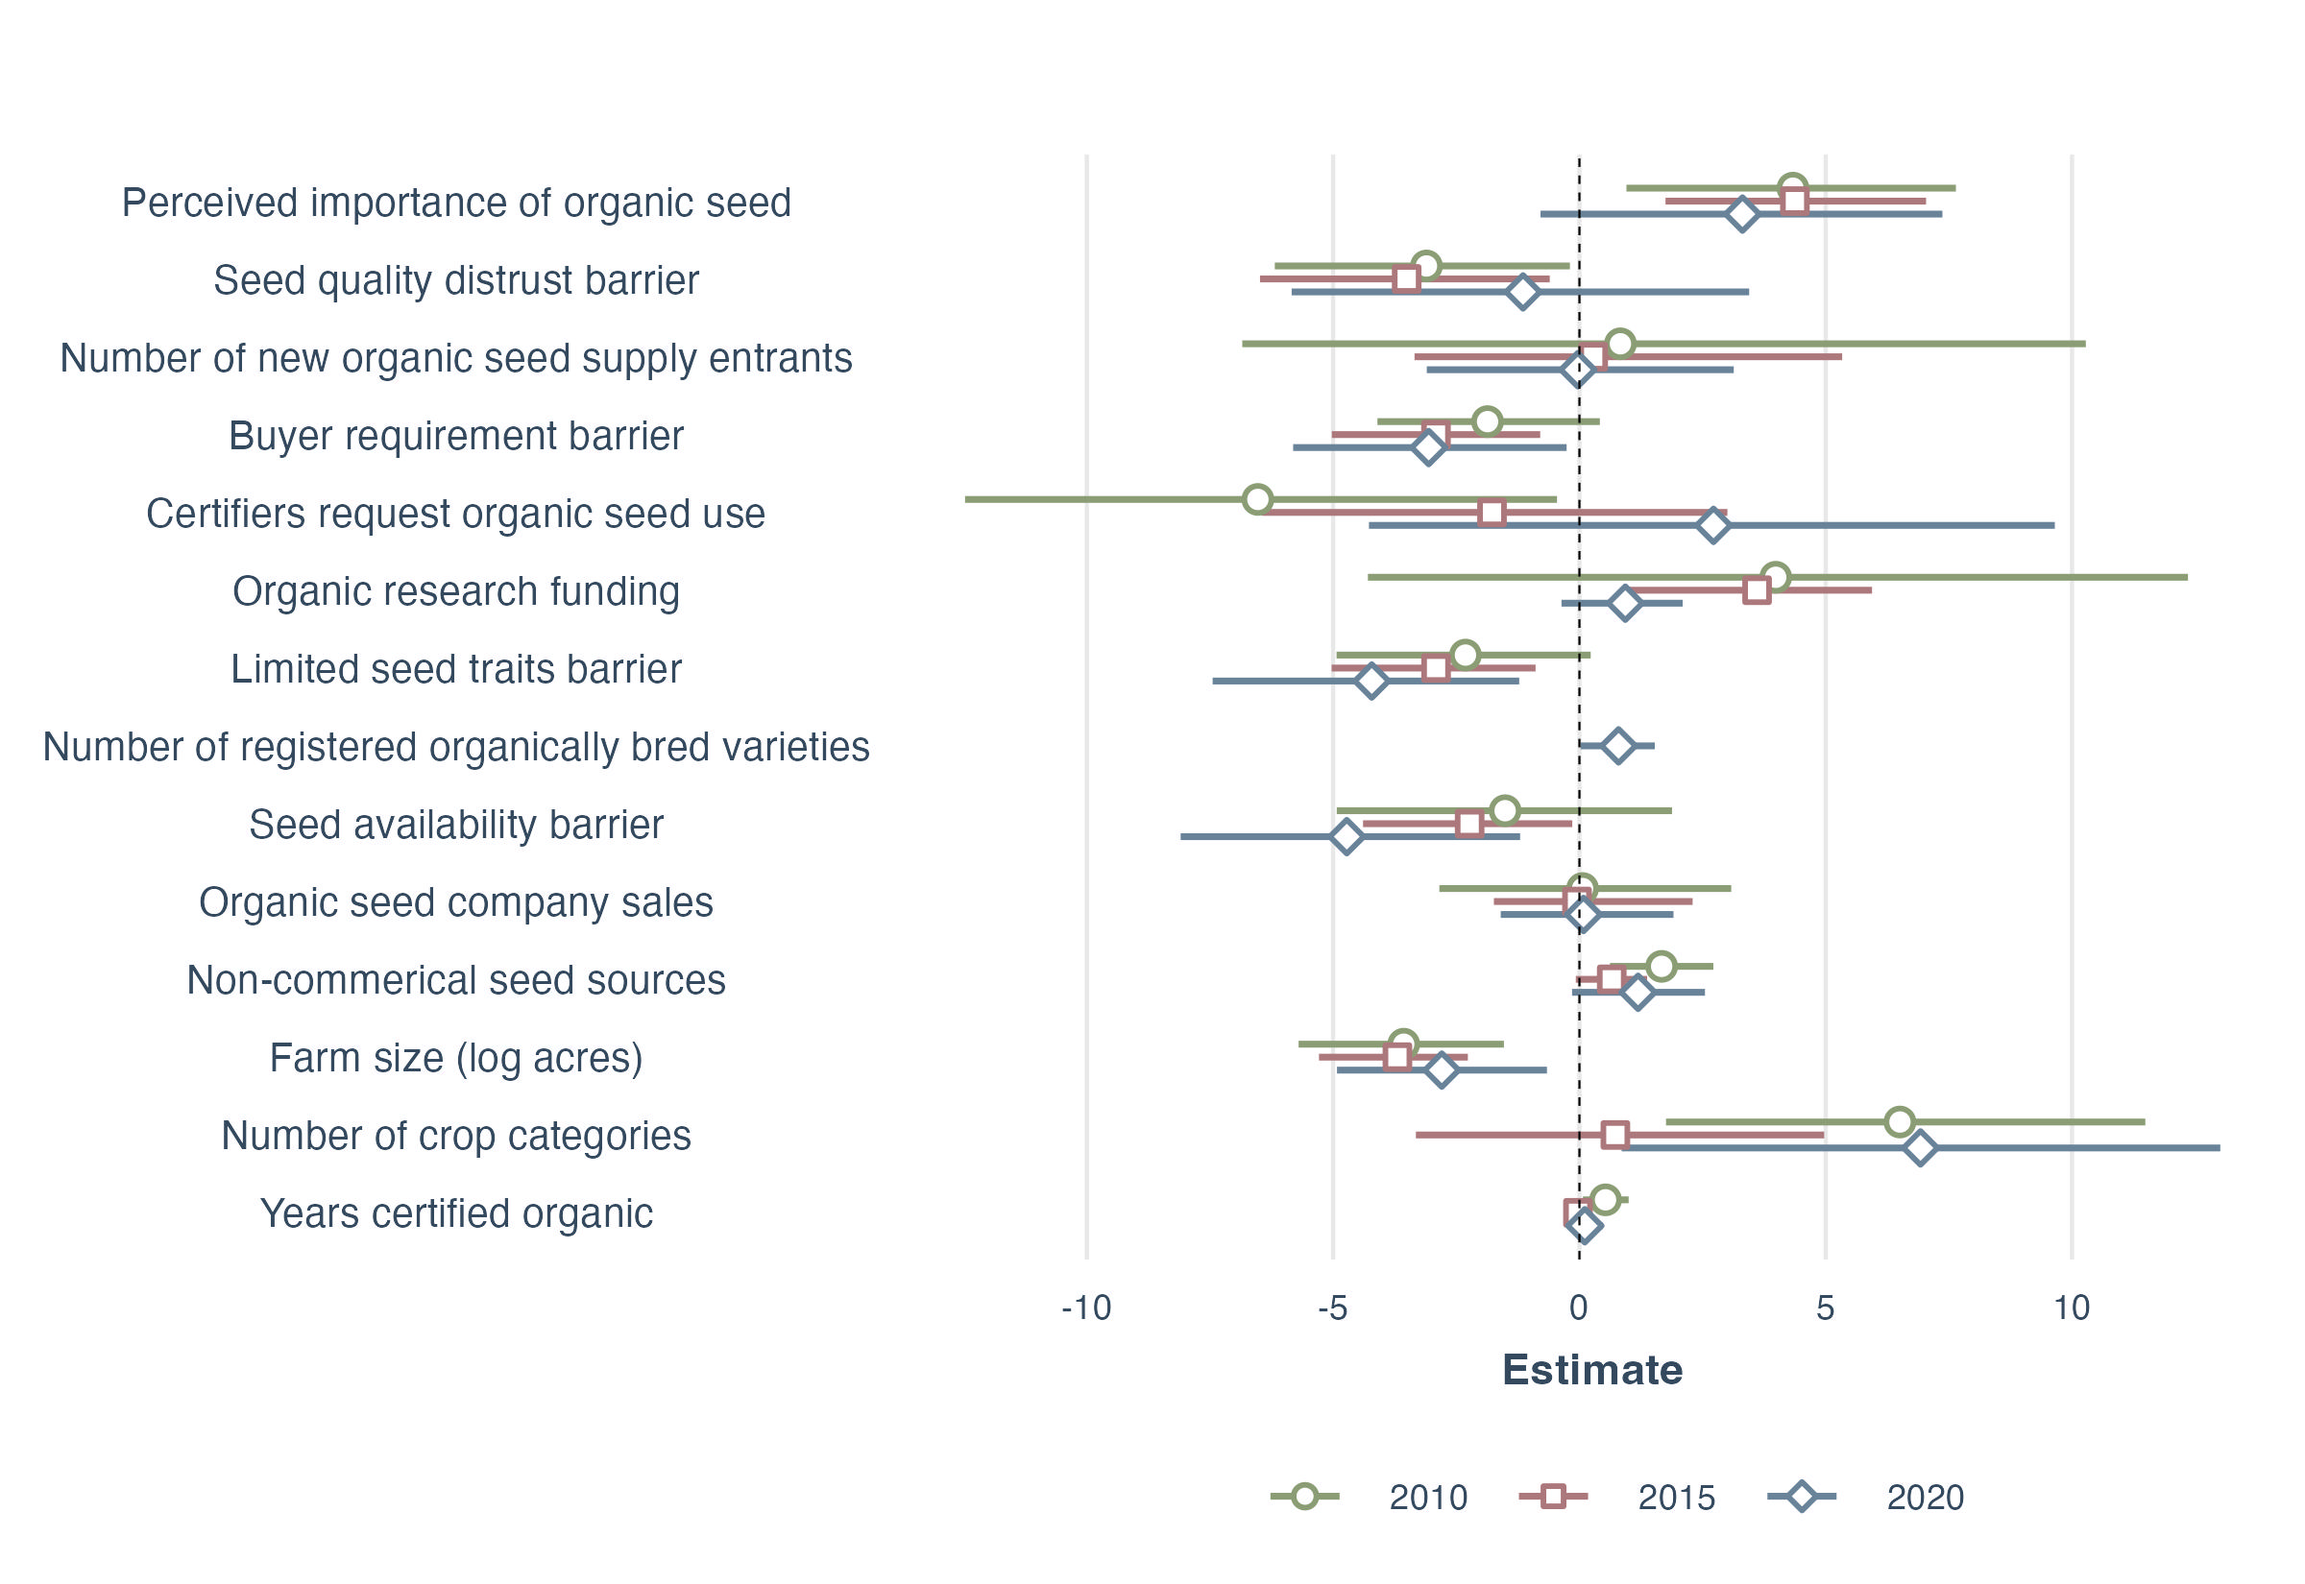
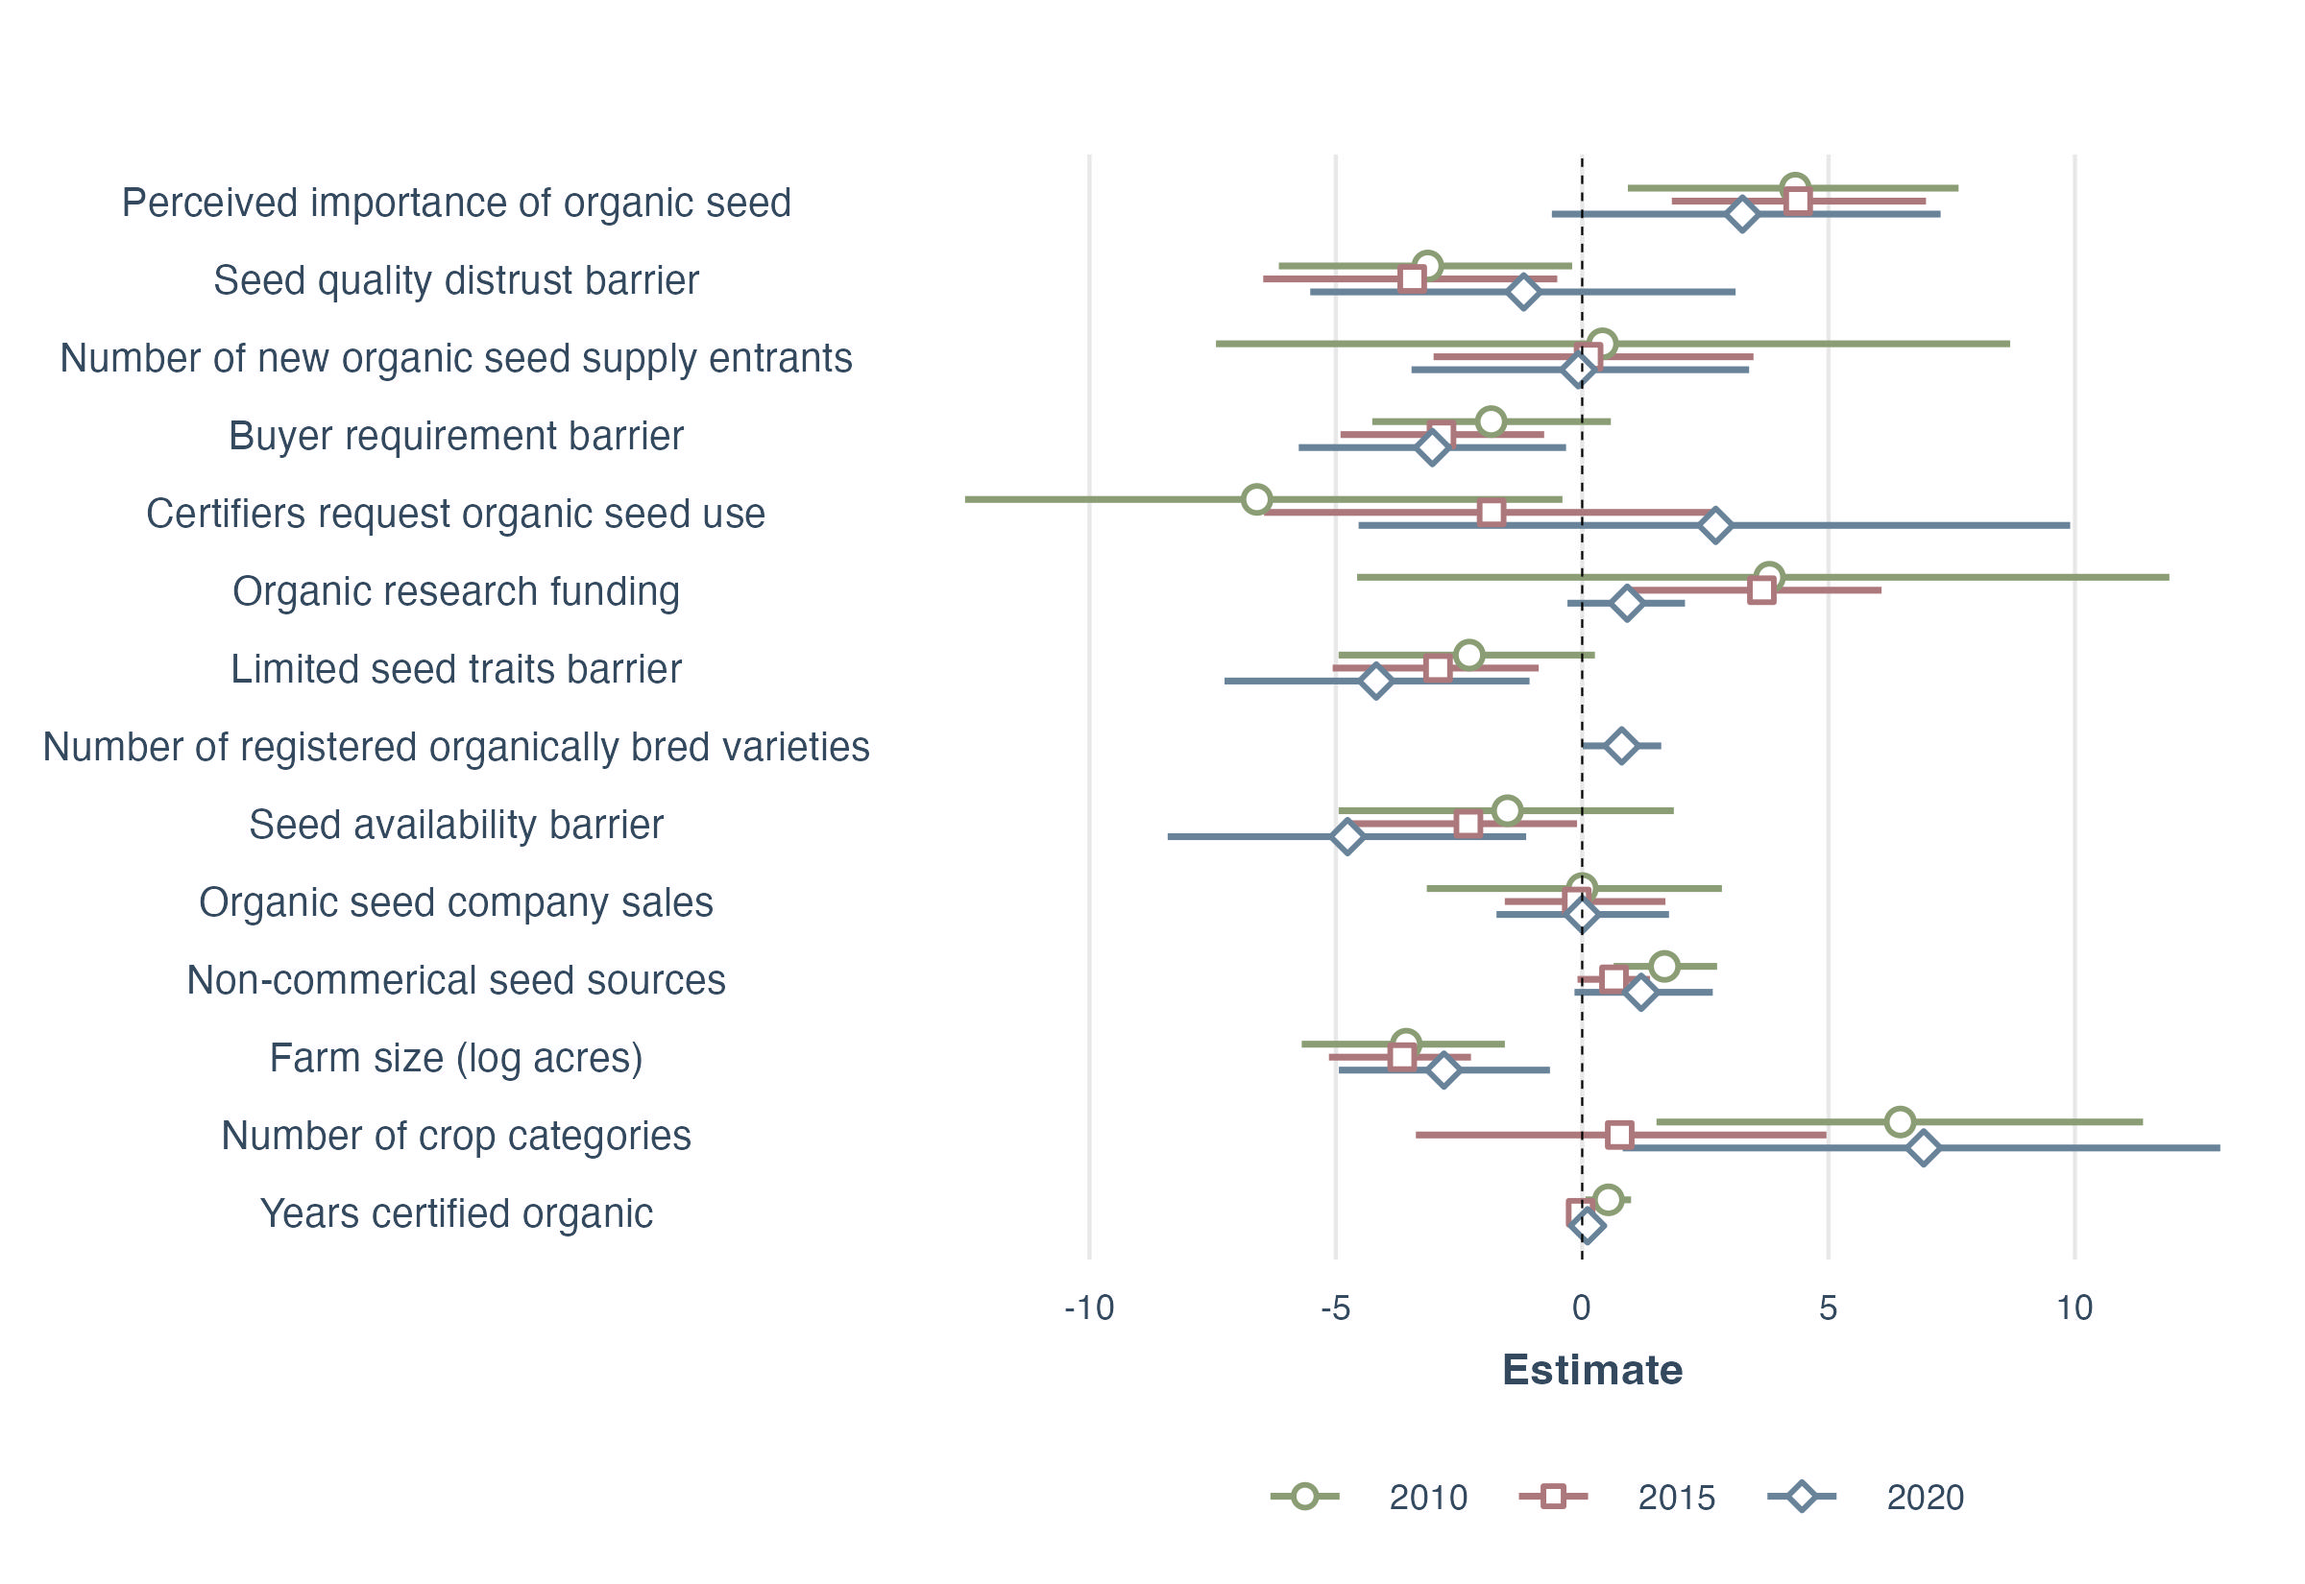
draft

diff --git a/README.md b/README.md
@@ -1,65 +1,52 @@
-## Drivers of organic seed adoption, 2001-2021 
+## Drivers of organic seed adoption, 2002-2021
 
-This repository houses code for the draft of CH1: Alternative sustainability transition pathways: Assessing innovation system functions' affect on adoption in the organic seed niche. The data of focus in this repository include invidual-level data based on organic grower surveys (2011, 2016, 2021), combined with innovation system quantification across that time period (2001-2021). Systems-level data collection is housed in the [quantifying_seed_innovation repository](https://github.com/liza-wood/quantifying_seed_innovation).
+This repository houses code for the draft of CH1: Alternative sustainability transition pathways: Assessing innovation system functions' affect on adoption in the organic seed niche. The data of focus in this repository include invidual-level data based on OSA's organic grower surveys (2011, 2016, 2021), combined with innovation system quantification across that time period (2002-2021). Systems-level data collection is housed in the [quantifying_seed_innovation repository](https://github.com/liza-wood/quantifying_seed_innovation).
 
-### Data storage:   
+### Data storage:
+
 Organic producer survey data from the 2011, 2016, and 2021 SOS reports are stored on the shared Dropbox, SOSInteractiveSurvey, and newly created data are stored in the shared Box folder, organicseed_adoption, or in the `data/` folder (namely codebooks).
 
-### Code file structure:    
+### Code file structure:
 
-```
-code/
-  00_creating_codebook: looks at the three organic producer survey data sets
-     (2011, 2016, 2021), and extracts the column titles and question text from 
-     the three and compiles them together, looking for overlaps. Codebooks are 
-     stored in the `data/` folder.
-  01_merging: reads in `data/codebook_3panel.csv` and the RDS files from the 
-     Dropbox. It uses the codebook to select only the columns that overlap 
-     across all 15 years and then also identifies the region for each respondent
-     based on their state.
-  02_variable_creation: adds in a few new columns for accomodating modelling. 
-     This is importantly where I identify the `maincrop` variable of a producer 
-     based on how they report their total acreage and then acreage by crop, 
-     looking for the crop that has the largest  proportion. I also experiment 
-     with factor analysis of challenges.
-  03_grower_level_data_summary: using cleaned data from the previous script, I
-     create tables summarizing key variables of (Table 1 and 2 and Figure 3)
-  03_innovation_level_data_summary: Similar to the summary in the quantifying_
-     seed_innovation summary.R, I bring together data on research funding, 
-     intellectual property, organic entrants, and seed company sales to 
-     summarize the innovation system, separate from the organic growers. 
-     I also create Figure 4. At the end of the script I generate the data
-     file: df_multilevel.rds
-  04_map_making: Using combined individual and systems-level data I generate
-     maps to visualize how the data were sampled and how they can represented
-     at the national/regional scale (Figure 2)
-  05_models_DVacreage_exploration: fits a few different models using the DV
-     of percent acreage. These include acreage of `maincrop` in the df 
-     dataframe, identified in the variable_creation script, and of every crop 
-     that a producer grows, using df.long. This dataframe, also created in the 
-     variable_creation script, is a lengthened dataframe where there are 
-     repeated values for some producers that grow more than one crop. For each 
-     of these data structures (df and df.long) I fit two models: one more basic 
-     linear model that includes year and region as fixed effects, and a second 
-     mixed effects model where I use year and region as random effects, and can 
-     add in the attributes of the year and region (funding and number of 
-     producers per region) as attributes of those higher levels. For the 
-     df.long models, I also have to include respondentID as a random effect 
-     because of the repeated nature of the multiple crops. I compare these 
-     models and run a couple diagnostics and *tentatively* think that the main 
-     crop dataframe is more predictive than the longer dataframe where producers
-     with multiple crops are repeated. The random and mixed effects models seem 
-     to perform similarly, so I keep working with both of them in the following 
-     scripts. 
-  06_models_final_multilevel: still TBD
-  07_S5_modelest_compare: Here I compare different models based on likelihood: 
-     linear, binomial, and beta. I use this supplemental material to inform the 
-     final model.
-```
+    code/
+      00_creating_codebook: looks at the three organic producer survey data sets
+         (2011, 2016, 2021), and extracts the column titles and question text from 
+         the three and compiles them together, looking for overlaps. Codebooks are 
+         stored in the `data/` folder.
+      01_merging: reads in `data/codebook_3panel.csv` and the RDS files from the 
+         Dropbox. It uses the codebook to select only the columns that overlap 
+         across all 15 years and then also identifies the region for each respondent
+         based on their state.
+      02_variable_creation: adds in a few new columns for accomodating modelling. 
+         This is importantly where I identify the `maincrop` variable of a producer 
+         based on how they report their total acreage and then acreage by crop, 
+         looking for the crop that has the largest  proportion. I also experiment 
+         with factor analysis of challenges.
+      03_grower_level_data_summary: using cleaned data from the previous script, I
+         create tables summarizing key variables of (Table 1 and 2 and Figure 3)
+      03_innovation_level_data_summary: Similar to the summary in the quantifying_
+         seed_innovation summary.R, I bring together data on research funding, 
+         intellectual property, organic entrants, and seed company sales to 
+         summarize the innovation system, separate from the organic growers. 
+         I also create Figure 4. At the end of the script I generate the data
+         file: df_multilevel.rds
+      04_map_making: Using combined individual and systems-level data I generate
+         maps to visualize how the data were sampled and how they can represented
+         at the national/regional scale (Figure 2)
+      05_models_DVacreage_exploration: Currently unused. It used to fit a few 
+         different models using the DV of percent acreage. These include acreage 
+         of `maincrop` in the df  dataframe, identified in the variable_creation
+         script, and of every crop that a producer grows, using df.long. 
+      06_models_final_multilevel: Based on S5, I went with the Bayesian linear 
+         model and ull in functions from the functions_model.R script to run 
+         the model and generate Figures 5a and 5b (which is really S8)
+      07_S5_modelest_compare: Here I compare different models based on likelihood: 
+         linear, binomial, and beta. I use this supplemental material to inform the 
+         final model.
 
-### Data flow:    
+### Data flow:
 
-1. From the `Dropbox/SOSInteractiveSurvey/` read in `data2011_cleaned.rds` + `data2016_cleaned.rds` +  `data2021_cleaned.rds` into `01_merged.R`. Merged outputs saved into `Box/organicseed_adoption/` as `merged_df_3panel.csv`
-1. `02_variable_creation.R` reads in `merged_df_3panel.csv`, cleans it and outputs: `Box/organicseed_adoption/df.rds` and `Box/organicseed/df.long.RDS`  
-1. `03_innovation_level_data_summary` reads in `Box/organicseed_adoption/df.rds` and merges it with data cleaned in quantifying_seed_innovation repository and outputs `Box/organicseed_adoption/df_multilevel.rds`
-1. The `df_multilevel.rds` is the main data frame used for analysis
+1.  From the `Dropbox/SOSInteractiveSurvey/` read in `data2011_cleaned.rds` + `data2016_cleaned.rds` + `data2021_cleaned.rds` into `01_merged.R`. Merged outputs saved into `Box/organicseed_adoption/` as `merged_df_3panel.csv`
+2.  `02_variable_creation.R` reads in `merged_df_3panel.csv`, cleans it and outputs: `Box/organicseed_adoption/df.rds` and `Box/organicseed/df.long.RDS`\
+3.  `03_innovation_level_data_summary` reads in `Box/organicseed_adoption/df.rds` and merges it with data cleaned in quantifying_seed_innovation repository and outputs `Box/organicseed_adoption/df_multilevel.rds`
+4.  The `df_multilevel.rds` is the main data frame used for analysis
